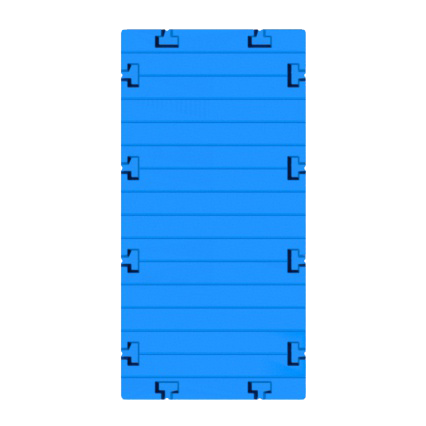
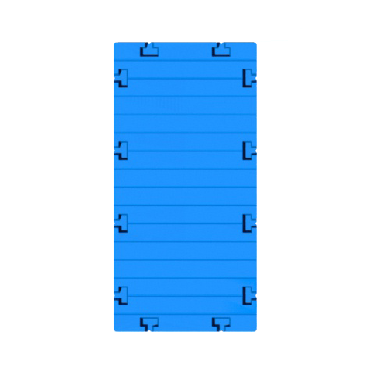
2

Changed region(s): [[0.2619, 0.0582, 0.7275, 0.9603], [0.4365, 0.1746, 0.5238, 0.2037], [0.4656, 0.4947, 0.4947, 0.5238]]

diff --git a/index.html b/index.html
@@ -47,9 +47,9 @@
         	<div id="header">
                 <div id="elements">
         	  <div>
-                  <a href=""id="question">
+                  <span href=""id="question">
                     ?
-                  </a>
+                  </span>
               </div>
               <div id="gabarites">
                     Сумма:
@@ -116,11 +116,11 @@
                 <div id="move" class="menu_object">Переместить</div>
                 <div id="Change_object_color" class="menu_object">Цвет
                     <div style="top:60px;padding-top:5px;">
-                        <div class="colors" style="background: #93cc70; " onclick="change_color('green', '#1a92fb')" ><a href="#" style="color:#1a92fb;">0</a></div>
-                        <div class="colors" style="background: #5483fe; " onclick="change_color('blue', '#5483fe')"><a href="#" style="color:#5483fe;">0</a></div>
-                        <div class="colors" style="background: #393; " onclick="change_color('brown', '#393')"><a href="#" style="color:#393; ">0</a></div>
-                        <div class="colors" style="background: #ffffff; " onclick="change_color('white', '#fff')"><a href="#" style="color:#ffffff;">0</a></div>
-                        <div class="colors" style="background: #666; " onclick="change_color('beige', '#666')"><a href="#" style="color:#666;">0</a></div>
+                        <div class="colors" style="background: #93cc70; " onclick="change_color('green', '#1a92fb')" ><span href="#" style="color:#1a92fb;">0</span></div>
+                        <div class="colors" style="background: #5483fe; " onclick="change_color('blue', '#5483fe')"><span href="#" style="color:#5483fe;">0</span></div>
+                        <div class="colors" style="background: #393; " onclick="change_color('brown', '#393')"><span href="#" style="color:#393; ">0</span></div>
+                        <div class="colors" style="background: #ffffff; " onclick="change_color('white', '#fff')"><span href="#" style="color:#ffffff;">0</span></div>
+                        <div class="colors" style="background: #666; " onclick="change_color('beige', '#666')"><span href="#" style="color:#666;">0</span></div>
                     </div>
                 </div>
             </div>
@@ -136,16 +136,16 @@
                              <span class="t-obj">
                                  Понтон <br> модульный
                              </span>
-                             <input type="image" alt=" Модуль понтона"  src='img/newimg/ponton_blue.png' id="red" width="100px" height="100px">
+                             <input type="image" alt=" Модуль понтона"  src='img/footer-photo/pontoon-blue.png' id="red" width="100px" height="100px">
                          </div>
                          <div class="color_el"  id="ch_c1">
                              0 
                              <div class="pod_menu">
-                                <div class="colors" style="background: #93cc70; " onclick="change_color('green', '#93cc70',1)" ><a href="#" style="color:#93cc70;">0</a></div>
-                                <div class="colors" style="background: #5483fe; " onclick="change_color('blue', '#5483fe',1)"><a href="#" style="color:#5483fe;">0</a></div>
-                                <div class="colors" style="background: #bf8571; " onclick="change_color('brown', '#bf8571',1)"><a href="#" style="color:#bf8571; ">0</a></div>
-                                <div class="colors" style="background: #ffffff; " onclick="change_color('white', '#fff',1)"><a href="#" style="color:#ffffff;">0</a></div>
-                                <div class="colors" style="background: #f0dcaf; " onclick="change_color('beige', '#f0dcaf',1)"><a href="#" style="color:#f0dcaf;">0</a></div>
+                                <div class="colors" style="background: #93cc70; " onclick="change_color('green', '#93cc70',1)" ><span  style="color:#93cc70; cursor:pointer ">0</span></div>
+                                <div class="colors" style="background: #5483fe; " onclick="change_color('blue', '#5483fe',1)"><span  style="color:#5483fe; cursor:pointer">0</span></div>
+                                <div class="colors" style="background: #bf8571; " onclick="change_color('brown', '#bf8571',1)"><span  style="color:#bf8571; cursor:pointer ">0</span></div>
+                                <div class="colors" style="background: #ffffff; " onclick="change_color('white', '#fff',1)"><span  style="color:#ffffff; cursor:pointer">0</span></div>
+                                <div class="colors" style="background: #f0dcaf; " onclick="change_color('beige', '#f0dcaf',1)"><span  style="color:#f0dcaf; cursor:pointer">0</span></div>
                              </div>
                          </div>
                     </div>
@@ -163,11 +163,11 @@
                      <div class="color_el"   id="ch_c2">
                          0 
                         <div class="pod_menu">
-                            <div class="colors" style="background: #93cc70; " onclick="change_color('green', '#93cc70',2)" ><a href="#" style="color:#93cc70;">0</a></div>
-                            <div class="colors" style="background: #5483fe; " onclick="change_color('blue', '#5483fe',2)"><a href="#" style="color:#5483fe;">0</a></div>
-                            <div class="colors" style="background: #bf8571; " onclick="change_color('brown', '#bf8571',2)"><a href="#" style="color:#bf8571; ">0</a></div>
-                            <div class="colors" style="background: #ffffff; " onclick="change_color('white', '#fff',2)"><a href="#" style="color:#ffffff;">0</a></div>
-                            <div class="colors" style="background: #f0dcaf; " onclick="change_color('beige', '#f0dcaf',2)"><a href="#" style="color:#f0dcaf;">0</a></div>
+                            <div class="colors" style="background: #93cc70; " onclick="change_color('green', '#93cc70',2)" ><span href="#" style="color:#93cc70; cursor:pointer">0</span></div>
+                            <div class="colors" style="background: #5483fe; " onclick="change_color('blue', '#5483fe',2)"><span href="#" style="color:#5483fe; cursor:pointer">0</span></div>
+                            <div class="colors" style="background: #bf8571; " onclick="change_color('brown', '#bf8571',2)"><span href="#" style="color:#bf8571; cursor:pointer ">0</span></div>
+                            <div class="colors" style="background: #ffffff; " onclick="change_color('white', '#fff',2)"><span href="#" style="color:#ffffff; cursor:pointer">0</span></div>
+                            <div class="colors" style="background: #f0dcaf; " onclick="change_color('beige', '#f0dcaf',2)"><span href="#" style="color:#f0dcaf; cursor:pointer">0</span></div>
                         </div>
                      </div>
                  </div>
@@ -185,11 +185,11 @@
                      <div class="color_el"  id="ch_c3">
                          0 
                          <div class="pod_menu">
-                            <div class="colors" style="background: #93cc70; " onclick="change_color('green', '#93cc70',3)" ><a href="#" style="color:#93cc70;">0</a></div>
-                            <div class="colors" style="background: #5483fe; " onclick="change_color('blue', '#5483fe',3)"><a href="#" style="color:#5483fe;">0</a></div>
-                            <div class="colors" style="background: #bf8571; " onclick="change_color('brown', '#bf8571',3)"><a href="#" style="color:#bf8571; ">0</a></div>
-                            <div class="colors" style="background: #ffffff; " onclick="change_color('white', '#fff',3)"><a href="#" style="color:#ffffff;">0</a></div>
-                            <div class="colors" style="background: #f0dcaf; " onclick="change_color('beige', '#f0dcaf',3)"><a href="#" style="color:#f0dcaf;">0</a></div>
+                            <div class="colors" style="background: #93cc70; " onclick="change_color('green', '#93cc70',3)" ><span href="#" style="color:#93cc70; cursor:pointer">0</span></div>
+                            <div class="colors" style="background: #5483fe; " onclick="change_color('blue', '#5483fe',3)"><span href="#" style="color:#5483fe; cursor:pointer">0</span></div>
+                            <div class="colors" style="background: #bf8571; " onclick="change_color('brown', '#bf8571',3)"><span href="#" style="color:#bf8571; cursor:pointer ">0</span></div>
+                            <div class="colors" style="background: #ffffff; " onclick="change_color('white', '#fff',3)"><span href="#" style="color:#ffffff; cursor:pointer">0</span></div>
+                            <div class="colors" style="background: #f0dcaf; " onclick="change_color('beige', '#f0dcaf',3)"><span href="#" style="color:#f0dcaf; cursor:pointer">0</span></div>
                         </div>
                      </div>
                  </div>
@@ -207,11 +207,11 @@
                      <div class="color_el"  id="ch_c4">
                          0 
                          <div class="pod_menu">
-                            <div class="colors" style="background: #93cc70; " onclick="change_color('green', '#93cc70',4)" ><a href="#" style="color:#93cc70;">0</a></div>
-                            <div class="colors" style="background: #5483fe; " onclick="change_color('blue', '#5483fe',4)"><a href="#" style="color:#5483fe;">0</a></div>
-                            <div class="colors" style="background: #bf8571; " onclick="change_color('brown', '#bf8571',4)"><a href="#" style="color:#bf8571; ">0</a></div>
-                            <div class="colors" style="background: #ffffff; " onclick="change_color('white', '#fff',4)"><a href="#" style="color:#ffffff;">0</a></div>
-                            <div class="colors" style="background: #f0dcaf; " onclick="change_color('beige', '#f0dcaf',4)"><a href="#" style="color:#f0dcaf;">0</a></div>
+                            <div class="colors" style="background: #93cc70; " onclick="change_color('green', '#93cc70',4)" ><span href="#" style="color:#93cc70; cursor:pointer">0</span></div>
+                            <div class="colors" style="background: #5483fe; " onclick="change_color('blue', '#5483fe',4)"><span href="#" style="color:#5483fe; cursor:pointer">0</span></div>
+                            <div class="colors" style="background: #bf8571; " onclick="change_color('brown', '#bf8571',4)"><span href="#" style="color:#bf8571; cursor:pointer ">0</span></div>
+                            <div class="colors" style="background: #ffffff; " onclick="change_color('white', '#fff',4)"><span href="#" style="color:#ffffff; cursor:pointer">0</span></div>
+                            <div class="colors" style="background: #f0dcaf; " onclick="change_color('beige', '#f0dcaf',4)"><span href="#" style="color:#f0dcaf; cursor:pointer">0</span></div>
                         </div>
                      </div>
                  </div>
@@ -229,11 +229,11 @@
                      <div class="color_el"  id="ch_c5">
                          0 
                          <div class="pod_menu">
-                            <div class="colors" style="background: #93cc70; " onclick="change_color('green', '#93cc70',5)" ><a href="#" style="color:#93cc70;">0</a></div>
-                            <div class="colors" style="background: #5483fe; " onclick="change_color('blue', '#5483fe',5)"><a href="#" style="color:#5483fe;">0</a></div>
-                            <div class="colors" style="background: #bf8571; " onclick="change_color('brown', '#bf8571',5)"><a href="#" style="color:#bf8571; ">0</a></div>
-                            <div class="colors" style="background: #ffffff; " onclick="change_color('white', '#fff',5)"><a href="#" style="color:#ffffff;">0</a></div>
-                            <div class="colors" style="background: #f0dcaf; " onclick="change_color('beige', '#f0dcaf',5)"><a href="#" style="color:#f0dcaf;">0</a></div>
+                            <div class="colors" style="background: #93cc70; " onclick="change_color('green', '#93cc70',5)" ><span href="#" style="color:#93cc70; cursor:pointer">0</span></div>
+                            <div class="colors" style="background: #5483fe; " onclick="change_color('blue', '#5483fe',5)"><span href="#" style="color:#5483fe; cursor:pointer">0</span></div>
+                            <div class="colors" style="background: #bf8571; " onclick="change_color('brown', '#bf8571',5)"><span href="#" style="color:#bf8571; cursor:pointer ">0</span></div>
+                            <div class="colors" style="background: #ffffff; " onclick="change_color('white', '#fff',5)"><span href="#" style="color:#ffffff; cursor:pointer">0</span></div>
+                            <div class="colors" style="background: #f0dcaf; " onclick="change_color('beige', '#f0dcaf',5)"><span href="#" style="color:#f0dcaf; cursor:pointer">0</span></div>
                         </div>
                      </div>
                  </div>
@@ -253,32 +253,32 @@
                  <div class="color_el"  id="ch_c6">
                      0 
                      <div class="pod_menu">
-                        <div class="colors" style="background: #93cc70; " onclick="change_color('green', '#93cc70',6)" ><a href="#" style="color:#93cc70;">0</a></div>
-                        <div class="colors" style="background: #5483fe; " onclick="change_color('blue', '#5483fe',6)"><a href="#" style="color:#5483fe;">0</a></div>
-                        <div class="colors" style="background: #bf8571; " onclick="change_color('brown', '#bf8571',6)"><a href="#" style="color:#bf8571; ">0</a></div>
-                        <div class="colors" style="background: #ffffff; " onclick="change_color('white', '#fff',6)"><a href="#" style="color:#ffffff;">0</a></div>
-                        <div class="colors" style="background: #f0dcaf; " onclick="change_color('beige', '#f0dcaf',6)"><a href="#" style="color:#f0dcaf;">0</a></div>
+                        <div class="colors" style="background: #93cc70; " onclick="change_color('green', '#93cc70',6)" ><span href="#" style="color:#93cc70; cursor:pointer">0</span></div>
+                        <div class="colors" style="background: #5483fe; " onclick="change_color('blue', '#5483fe',6)"><span href="#" style="color:#5483fe; cursor:pointer">0</span></div>
+                        <div class="colors" style="background: #bf8571; " onclick="change_color('brown', '#bf8571',6)"><span href="#" style="color:#bf8571; cursor:pointer ">0</span></div>
+                        <div class="colors" style="background: #ffffff; " onclick="change_color('white', '#fff',6)"><span href="#" style="color:#ffffff; cursor:pointer">0</span></div>
+                        <div class="colors" style="background: #f0dcaf; " onclick="change_color('beige', '#f0dcaf',6)"><a href="#" style="color:#f0dcaf; cursor:pointer">0</span></div>
                     </div>
                  </div>
              </div>
              <div class="sub" style="top:-20px;">
-                 <div class="shetpont" id='bench'>
+                 <div class="shetpont" id='bench' style="color:black">
                      0
                 </div>
                 <div class="rotate" ><img src="img/rotate.jpg" onclick="rot('sit');onRotate(7);" style="z-index:100;width:105%; height:105%; border-radius:50%; left:0;" alt=""></div>
                 <div onclick="model6onClick()" class="object line">
-                    <span class="t-obj">
+                    <span class="t-obj" style="color:black">
                         Лавочка с соединителями
                     </span> <input type="image" alt="Лавочка с соединителями"  src="img/footer-photo/bench.png"id="sit" width="100px" height="100px">
                 </div>
-                <div class="color_el"  id="ch_c6" style="opacity:0">
+                <div class="color_el"  id="ch_c6" style="opacity:0;">
                     0 
                     <div class="pod_menu">
-                       <div class="colors" style="background: #93cc70; " onclick="change_color('green', '#93cc70',6)" ><a href="#" style="color:#93cc70;">0</a></div>
-                       <div class="colors" style="background: #5483fe; " onclick="change_color('blue', '#5483fe',6)"><a href="#" style="color:#5483fe;">0</a></div>
-                       <div class="colors" style="background: #bf8571; " onclick="change_color('brown', '#bf8571',6)"><a href="#" style="color:#bf8571; ">0</a></div>
-                       <div class="colors" style="background: #ffffff; " onclick="change_color('white', '#fff',6)"><a href="#" style="color:#ffffff;">0</a></div>
-                       <div class="colors" style="background: #f0dcaf; " onclick="change_color('beige', '#f0dcaf',6)"><a href="#" style="color:#f0dcaf;">0</a></div>
+                       <div class="colors" style="background: #93cc70; " onclick="change_color('green', '#93cc70',6)" ><span href="#" style="color:#93cc70;">0</span></div>
+                       <div class="colors" style="background: #5483fe; " onclick="change_color('blue', '#5483fe',6)"><span href="#" style="color:#5483fe;">0</span></div>
+                       <div class="colors" style="background: #bf8571; " onclick="change_color('brown', '#bf8571',6)"><span href="#" style="color:#bf8571; ">0</span></div>
+                       <div class="colors" style="background: #ffffff; " onclick="change_color('white', '#fff',6)"><span href="#" style="color:#ffffff;">0</span></div>
+                       <div class="colors" style="background: #f0dcaf; " onclick="change_color('beige', '#f0dcaf',6)"><span href="#" style="color:#f0dcaf;">0</span></div>
                    </div>
              </div>
             </div>

diff --git a/js/script.js b/js/script.js
@@ -106,9 +106,9 @@ function init(){
 	scrollCanvas.scrollTop=1200; 
 	scrollCanvas.scrollLeft=900;
 	ctx.strokeStyle = 'white';
-	for(var i=0;i<200;i++){ 
+	for(var i=0;i<100;i++){ 
         maps[i]=new Array(); 
-        for(var j=0;j<200;j++){ 
+        for(var j=0;j<100;j++){ 
         	maps[i][j]=new Object( {code:0, id:-1,color:"none"} );
         }
     } 
@@ -118,7 +118,7 @@ function init(){
 	imgMapsPontonGR.src='img/newimg/ponton_grow2.png';
 	imgMapsPontonW.src='img/newimg/ponton_white.png';
 	imgMapsPontonBE.src='img/newimg/ponton_gr.png'; 
-	imgMapsSkhodnyaB.src = 'img/photo-objects-png/skhodnya/skhodnya_blue.png'; 
+	imgMapsSkhodnyaB.src = 'img/newimg/gangway_blue.png'; 
 	imgMapsSkhodnyaG.src = 'img/newimg/gangway_green.png'; 
 	imgMapsSkhodnyaGR.src = 'img/newimg/Ganway_grow.png'; 
 	imgMapsSkhodnyaW.src = 'img/newimg/gangway_white.png'; 
@@ -293,7 +293,7 @@ function change_color(id, colors,num){
 		case 1:
 			switch (colorArr[num-1]){
 				case 'green':document.getElementById('red').src='img/newimg/ponton_green.png';break;
-				case 'blue' :document.getElementById('red').src='img/newimg/ponton_blue.png';break;
+				case 'blue' :document.getElementById('red').src='img/footer-photo/pontoon-blue.png';break;
 				case 'brown':document.getElementById('red').src='img/newimg/ponton_grow.png';break;
 				case 'white':document.getElementById('red').src='img/newimg/Ponton_wh.png';break;
 				case 'beige':document.getElementById('red').src='img/newimg/ponton_gray.png';break;
@@ -391,8 +391,8 @@ function sum(){
 function area(){
 	var up=0;
 	var f=false;
-	for(var i=0;i<200;i++){
-		for(var j=0;j<200;j++){
+	for(var i=0;i<100;i++){
+		for(var j=0;j<100;j++){
 			if(maps[i][j].code!=0){
 				up=i;
 				i=300;
@@ -402,8 +402,8 @@ function area(){
 		}
 	}
 	var left=0;
-	for(var i=0;i<200;i++){
-		for(var j=0;j<200;j++){
+	for(var i=0;i<100;i++){
+		for(var j=0;j<100;j++){
 			if(maps[j][i].code!=0){
 				left=i;
 				i=300;
@@ -413,8 +413,8 @@ function area(){
 		}
 	}
 	var bottom=0;
-	for(var i=199;i>=0;i--){
-		for(var j=199;j>=0;j--){
+	for(var i=99;i>=0;i--){
+		for(var j=99;j>=0;j--){
 			if(maps[i][j].code!=0){
 				bottom=i;
 				i=0;
@@ -424,8 +424,8 @@ function area(){
 		}
 	}
 	var right=0;
-	for(var j=199;j>=0;j--){
-		for(var i=0;i<200;i++){
+	for(var j=99;j>=0;j--){
+		for(var i=0;i<100;i++){
 			if(maps[i][j].code!=0){
 				right=j;
 				j=0;
@@ -454,8 +454,8 @@ function quantity(){
 
 
 function clearCanvas(){
-	for(var i=0;i<200;i++){ 
-        for(var j=0;j<200;j++){ 
+	for(var i=0;i<100;i++){ 
+        for(var j=0;j<100;j++){ 
         	maps[i][j].code=0;
         	maps[i][j].id=0;
         }
@@ -523,10 +523,10 @@ function CutObjMaps(x,y){
 		var ii=-1;
 		var idM=maps[y][x].id;
 		console.log(maps[y][x].code,maps[y][x].id);
-		for(var i=0;i<200;i++){
+		for(var i=0;i<100;i++){
 			var f=true;
 			var jj=0;
-			for(var j=0;j<200;j++){
+			for(var j=0;j<100;j++){
 				if(idM==maps[i][j].id){
 					if(f){
 						ii++;
@@ -854,7 +854,7 @@ function canvasMoveMouse(evt){
 			
 			switch (color){
 				case 'green':imgGhost.src='img/newimg/gangway_green_shadow.png';imgMouse.src = 'img/newimg/gangway_green.png';break;
-				case 'blue' :imgGhost.src='img/photo-objects-png/skhodnya/skhodnya_blue_ghost.png';imgMouse.src = 'img/photo-objects-png/skhodnya/skhodnya_blue.png';break;
+				case 'blue' :imgGhost.src='img/newimg/gangway_blue_shadow.png';imgMouse.src = 'img/newimg/gangway_blue.png';break;
 				case 'brown':imgGhost.src='img/newimg/gangway_grow_shadow.png';imgMouse.src = 'img/newimg/ganway_grow.png';break;
 				case 'white':imgGhost.src='img/newimg/gangway_white_shadow.png';imgMouse.src = 'img/newimg/gangway_white.png';break;
 				case 'beige':imgGhost.src='img/newimg/gangway_gray_shadow.png';imgMouse.src = 'img/newimg/gangway_gr.png';break;
@@ -3740,7 +3740,7 @@ function visibleWebClick(){
 
 function scalePlusClick(){ 
 	if(scale<20){ 
-		scale+=10; 
+		scale+=5; 
 		canvas.width=(30+scale)*200; 
 		canvas.height=(30+scale)*200; 
 		draw(); 
@@ -3771,8 +3771,8 @@ function fullScreenClick(){
 } 
 
 function scaleMinusClick(){ 
-	if(scale>-20){ 
-		scale-=10; 
+	if(scale>-25){ 
+		scale-=5; 
 		canvas.width=(30+scale)*200; 
 		canvas.height=(30+scale)*200; 
 		draw(); 

diff --git a/css/style.css b/css/style.css
@@ -189,7 +189,6 @@
     text-align:center;
     position:relative; 
     border:3px solid #fc0;
-    z-index:1;
     background:#1a92fb;
     color:#1a92fb;
     width: 18%;

diff --git a/load.php b/load.php
@@ -232,7 +232,7 @@
   $mail->addAddress('cer-c@mail.ru');//Почту менять ТУТ
   $mail->CharSet = "utf-8";
   $mail->Subject = 'PHPMailer file sender';
-  $mail->msgHTML("От: ".$_GET['name']."\r\n Телефон: ".$_GET['telephone']."\r\n Коммент: ".$_GET['comment']);
+  $mail->msgHTML("От: ".$_GET['name']."<br> Телефон: ".$_GET['telephone']."\r\n <br> Коммент: ".$_GET['comment']);
   $mail->addAttachment($root."/pdf/".$filename.".pdf");
   $r = $mail->send();//отправка на почту
   echo '<script>window.close()</script>'
